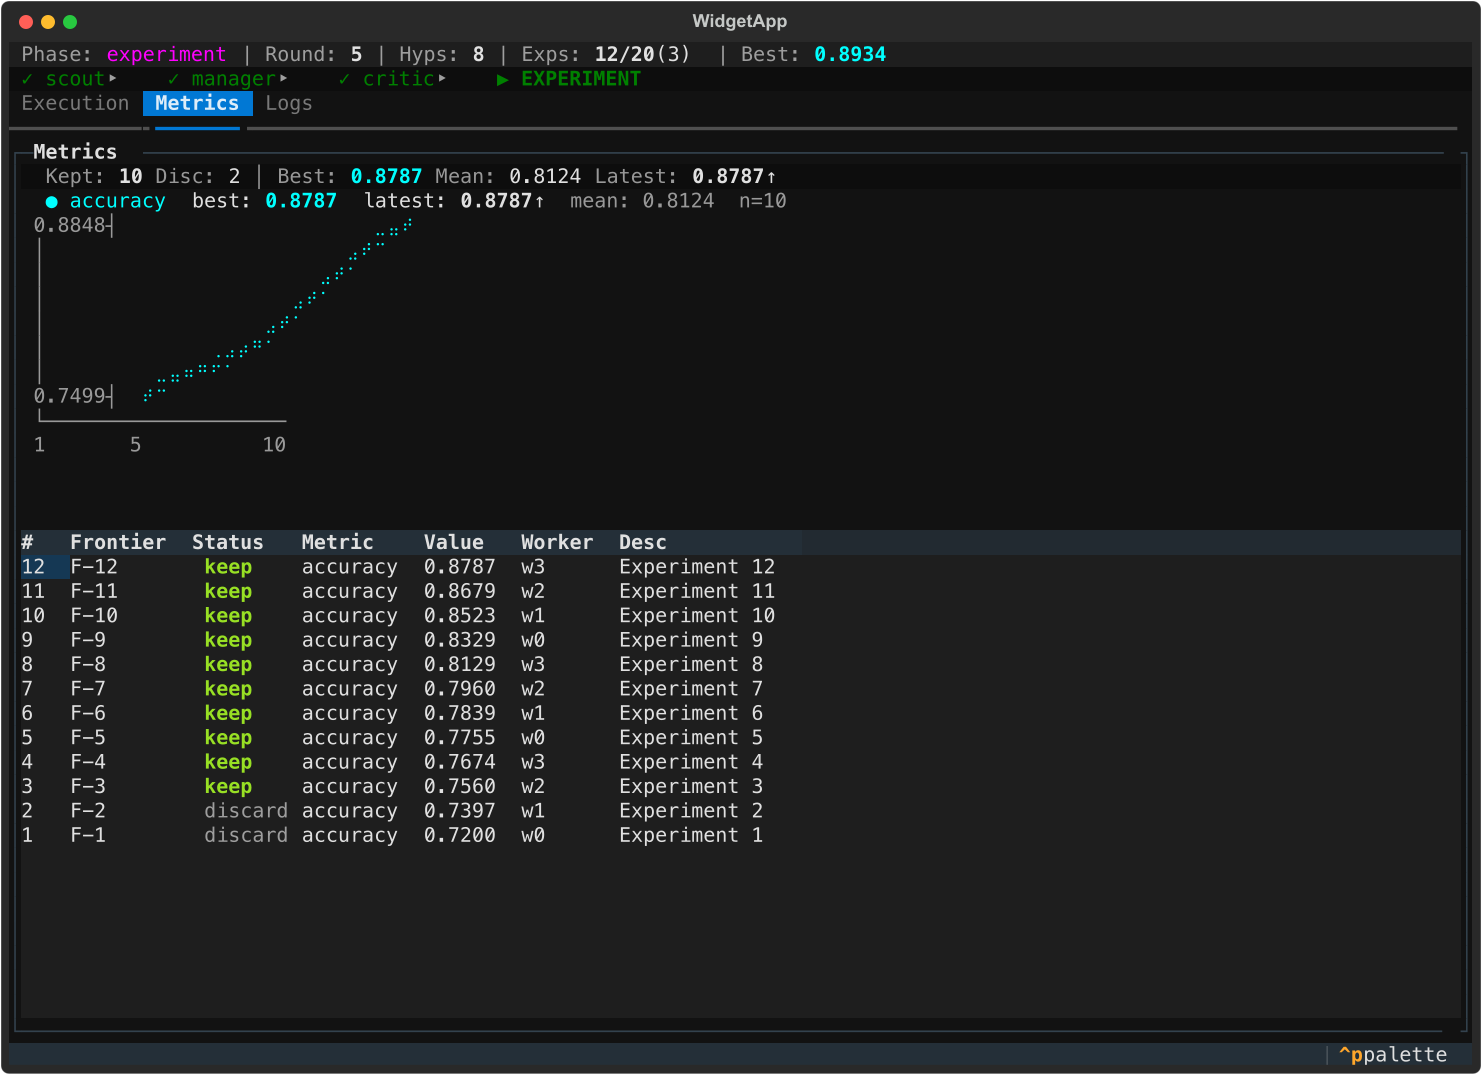
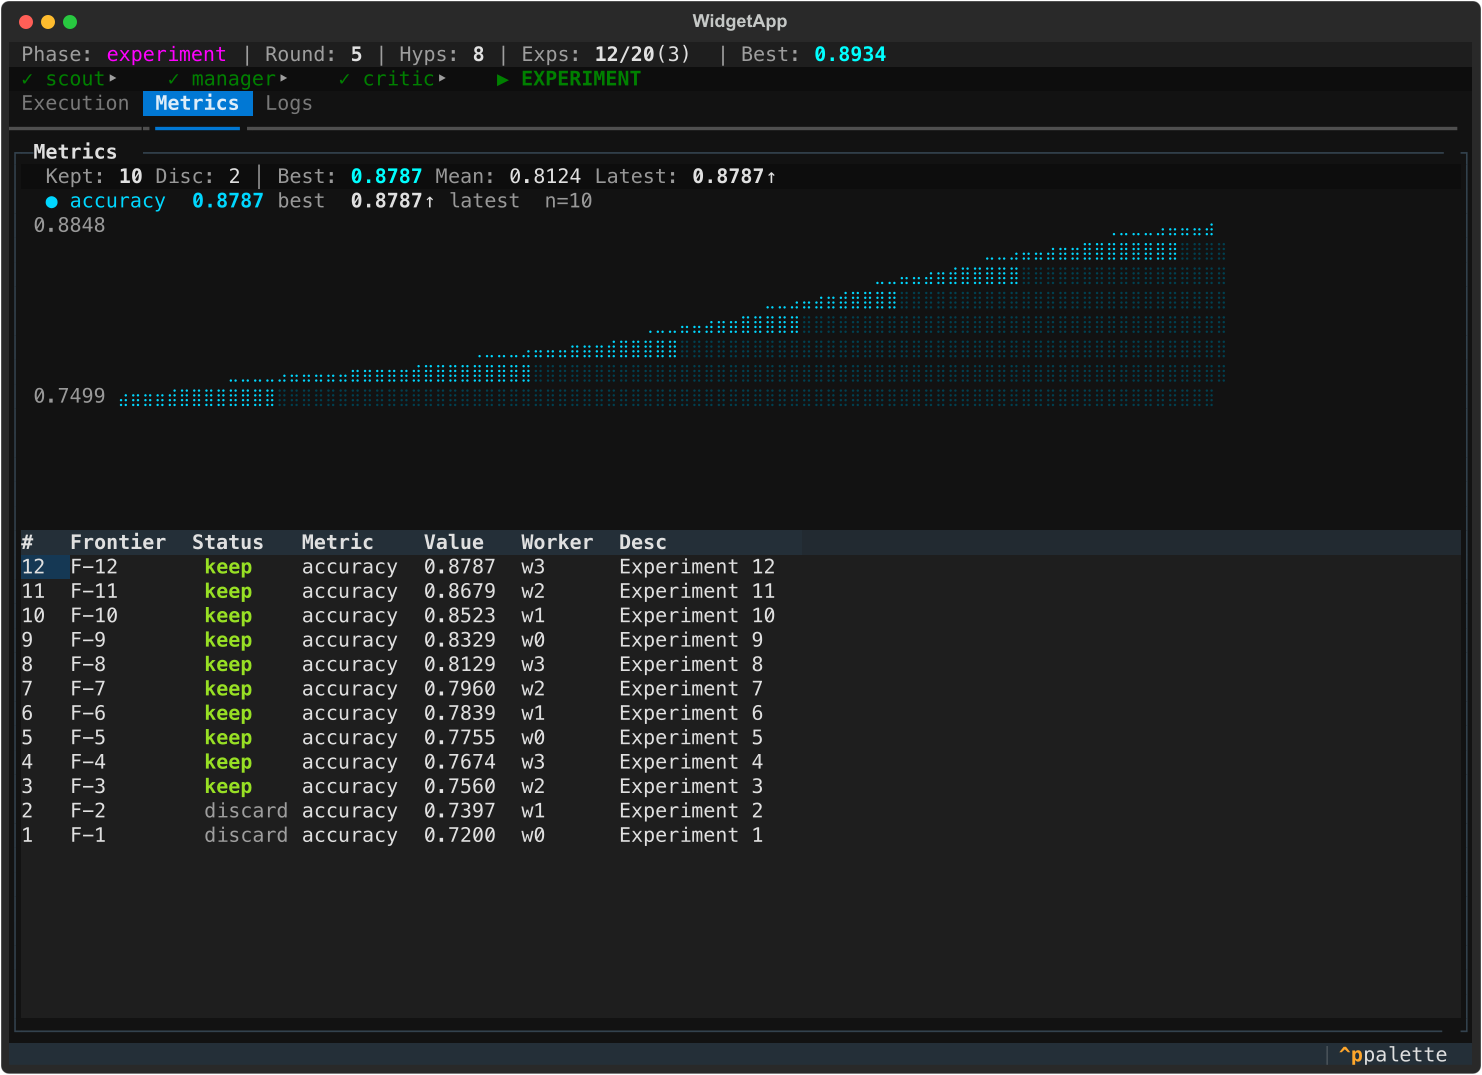
feat(v2): high-res braille area chart with gradient fill
Replace half-block charts with braille area charts (4x vertical, 2x
horizontal resolution). Curve boundary rendered in bright color, area
fill below in dark variant of same hue. Use hex colors for precise
control over brightness contrast.

diff --git a/src/open_researcher_v2/tui/widgets.py b/src/open_researcher_v2/tui/widgets.py
@@ -233,19 +233,14 @@ class LogPanel(Vertical):
 
 
 class MetricChart(Vertical):
-    """Metrics panel with per-metric sparkline line charts and results table."""
+    """Metrics panel with per-metric sparkline area charts and results table."""
 
     BORDER_TITLE = "Metrics"
 
-    _COLORS = ["cyan", "green", "yellow", "magenta", "blue"]
-
-    # Braille dot positions within a cell (row, col) → bit
-    _DOT_MAP = [
-        [0x01, 0x08],
-        [0x02, 0x10],
-        [0x04, 0x20],
-        [0x40, 0x80],
-    ]
+    # Bright line colors
+    _COLORS = ["#00d7ff", "#00ff87", "#ffd700", "#d787ff", "#5fafff"]
+    # Dark fill colors (same hue, much darker for area below curve)
+    _COLORS_DIM = ["#004050", "#003820", "#403800", "#301848", "#183050"]
 
     def compose(self):  # type: ignore[override]
         yield Static(id="metric-summary")
@@ -329,10 +324,9 @@ class MetricChart(Vertical):
         return "\u2191" if vals[-1] > vals[-2] else "\u2193" if vals[-1] < vals[-2] else "\u2192"
 
     def _render_sparklines(self, widget: Static, metric_data: dict[str, list[float]]) -> None:
-        """Render stacked sparkline line charts, one per metric."""
+        """Render stacked sparkline area charts, one per metric."""
         n_metrics = len(metric_data)
-        max_n = max(len(vs) for vs in metric_data.values())
-        chart_cols = min(80, max(20, max_n * 2))
+        chart_cols = 90
 
         # Allocate chart rows per metric
         if n_metrics == 1:
@@ -345,43 +339,65 @@ class MetricChart(Vertical):
             rows_per = 3
 
         colors = self._COLORS
+        dim_colors = self._COLORS_DIM
         lines: list[str] = []
 
         for i, (name, values) in enumerate(metric_data.items()):
             color = colors[i % len(colors)]
+            dim_color = dim_colors[i % len(dim_colors)]
             best = max(values)
             latest = values[-1]
-            mean = sum(values) / len(values)
             trend = self._trend_arrow(values)
 
-            # Metric header — trailing spaces INSIDE [/] to avoid Textual eating them
+            # Compact metric header
             lines.append(
                 f" [{color}]\u25cf {name}  [/]"
-                f"best: [{color} bold]{best:.4f}  [/]"
-                f"latest: [bold]{latest:.4f}[/]{trend}"
-                f"  [dim]mean: {mean:.4f}  n={len(values)}[/]"
+                f"[bold {color}]{best:.4f} [/]"
+                f"[dim]best  [/]"
+                f"[bold]{latest:.4f}[/]{trend} "
+                f"[dim]latest  n={len(values)}[/]"
             )
 
             if len(values) < 2:
-                lines.append(f"   [dim]Single point: {values[0]:.4f}[/]")
+                # Single-value mini bar
+                lines.append(f"   [{color}]\u2588\u2588\u2588\u2588\u2588[/] {values[0]:.4f}")
             else:
-                chart_lines = self._render_line(values, chart_cols, rows_per, color)
+                chart_lines = self._render_area(
+                    values, chart_cols, rows_per, color, dim_color,
+                )
                 lines.extend(chart_lines)
 
-            # Separator between metrics
             if i < n_metrics - 1:
                 lines.append("")
 
         widget.update("\n".join(lines))
 
+    # Braille dot positions: (row 0-3, col 0-1) → bitmask
+    _DOT_MAP = [
+        [0x01, 0x08],
+        [0x02, 0x10],
+        [0x04, 0x20],
+        [0x40, 0x80],
+    ]
+
     @classmethod
-    def _render_line(cls, values: list[float], chart_cols: int,
-                     chart_rows: int, color: str) -> list[str]:
-        """Render a single braille line chart (line only, no area fill)."""
+    def _render_area(
+        cls,
+        values: list[float],
+        chart_cols: int,
+        chart_rows: int,
+        color: str,
+        dim_color: str,
+    ) -> list[str]:
+        """Render a braille area chart (4× vertical, 2× horizontal resolution).
+
+        All braille dots at or below the curve are set.  Character cells
+        containing the curve boundary use *color* (bright); cells that are
+        purely fill below the curve use *dim_color*.
+        """
         vmin, vmax = min(values), max(values)
         vrange = vmax - vmin
 
-        # Add 5% padding so line doesn't touch edges
         if vrange < 1e-9:
             vrange = max(abs(vmin) * 0.1, 0.01)
             vmin -= vrange / 2
@@ -393,88 +409,66 @@ class MetricChart(Vertical):
             vmax += pad
             vrange = vmax - vmin
 
-        px_w = chart_cols * 2
-        px_h = chart_rows * 4
-        grid = [[False] * px_w for _ in range(px_h)]
-
         n = len(values)
-        prev_py: int | None = None
+        px_w = chart_cols * 2   # 2 horizontal pixels per cell
+        px_h = chart_rows * 4   # 4 vertical pixels per cell
 
-        for px_x in range(px_w):
-            # Interpolate data value
-            data_x = px_x / max(1, px_w - 1) * (n - 1)
+        # Per-pixel-column height (0 = bottom, px_h-1 = top)
+        heights: list[int] = []
+        for gx in range(px_w):
+            data_x = gx / max(1, px_w - 1) * (n - 1)
             idx = int(data_x)
             frac = data_x - idx
             if idx >= n - 1:
                 v = values[-1]
             else:
                 v = values[idx] * (1 - frac) + values[idx + 1] * frac
+            h = (v - vmin) / vrange * (px_h - 1)
+            heights.append(max(0, min(px_h - 1, round(h))))
 
-            # Map to pixel Y (0 = bottom, px_h-1 = top)
-            py = int((v - vmin) / vrange * (px_h - 1) + 0.5)
-            py = max(0, min(px_h - 1, py))
-
-            # Draw line point
-            grid[py][px_x] = True
-
-            # Connect to previous point to avoid gaps
-            if prev_py is not None and abs(py - prev_py) > 1:
-                lo, hi = min(prev_py, py), max(prev_py, py)
-                for y in range(lo, hi + 1):
-                    grid[y][px_x] = True
-
-            prev_py = py
-
-        # Thicken line by 1 pixel upward for visibility
-        for px_x in range(px_w):
-            for py in range(px_h - 2, -1, -1):
-                if grid[py][px_x] and py + 1 < px_h:
-                    grid[py + 1][px_x] = True
-
-        # Convert grid to braille characters
-        y_labels = {0: vmax, chart_rows - 1: vmin}
         dot_map = cls._DOT_MAP
-
         lines: list[str] = []
-        for crow in range(chart_rows):
-            label = f"{y_labels[crow]:.4f}" if crow in y_labels else ""
-            axis_ch = "\u2524" if crow in y_labels else "\u2502"
 
-            row_chars: list[str] = []
-            has_dots = False
+        for crow in range(chart_rows):
+            # Y-axis label
+            if crow == 0:
+                label = f"{vmax:.4f} "
+            elif crow == chart_rows - 1:
+                label = f"{vmin:.4f} "
+            else:
+                label = " " * 8
+
+            # Build braille characters for this row
+            bright_parts: list[str] = []  # chars containing the line
+            dim_parts: list[str] = []     # chars that are pure fill
+            row_markup: list[str] = []
+
             for ccol in range(chart_cols):
                 code = 0x2800
+                has_line = False
+                has_any = False
+
                 for dy in range(4):
                     for dx in range(2):
+                        # pixel y: 0 = bottom of chart
                         gy = px_h - 1 - (crow * 4 + dy)
                         gx = ccol * 2 + dx
-                        if 0 <= gy < px_h and 0 <= gx < px_w and grid[gy][gx]:
-                            code |= dot_map[dy][dx]
-                row_chars.append(chr(code))
-                if code != 0x2800:
-                    has_dots = True
+                        if 0 <= gy and gx < px_w:
+                            h = heights[gx]
+                            if gy <= h:
+                                code |= dot_map[dy][dx]
+                                has_any = True
+                                if gy == h or gy == h - 1:
+                                    has_line = True
 
-            braille = "".join(row_chars)
-            prefix = f"[dim]{label:>8}{axis_ch}[/]"
-            if has_dots:
-                lines.append(f"{prefix}[{color}]{braille}[/]")
-            else:
-                lines.append(f"{prefix}{braille}")
+                ch = chr(code)
+                if has_line:
+                    row_markup.append(f"[{color}]{ch}[/]")
+                elif has_any:
+                    row_markup.append(f"[{dim_color}]{ch}[/]")
+                else:
+                    row_markup.append(" ")
 
-        # X-axis
-        lines.append(f"[dim]{' ' * 8}\u2514{'─' * chart_cols}[/]")
-
-        # X-axis labels
-        num_labels = min(n, max(3, chart_cols // 8))
-        x_line = [" "] * (chart_cols + 5)
-        for i in range(num_labels):
-            di = round(i / max(1, num_labels - 1) * (n - 1))
-            col = round(di / max(1, n - 1) * (chart_cols - 1)) if n > 1 else 0
-            text = str(di + 1)
-            if col + len(text) <= len(x_line):
-                if all(x_line[col + j] == " " for j in range(len(text))):
-                    for j, ch in enumerate(text):
-                        x_line[col + j] = ch
-        lines.append(f"[dim]{' ' * 9}{''.join(x_line).rstrip()}[/]")
+            lines.append(f"[dim]{label}[/]{''.join(row_markup)}")
 
         return lines
